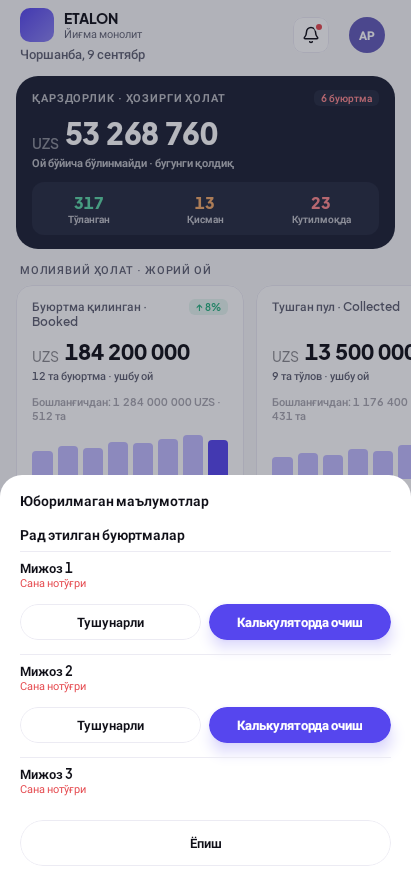
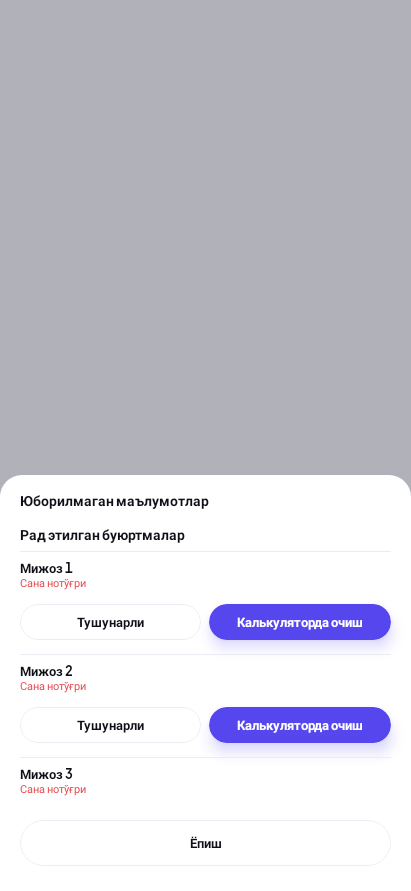
Chore(home) · dashboard phase close
The three outbox frames were whole-screen captures of `HomeScreen` under a
translucent scrim, so every one of them moved whenever a figure on Home's
first screen changed — three re-records a phase with no finding in any of
them. They now open the sheet over a blank page (`OutboxPage`, the pattern
`PickerSheetsScreenshotTest` already uses), which is what the frames are
actually about. The sheet's own pixels are unchanged: below its top edge the
new frames and the old ones differ in zero pixels.

`SHELL_NAV_PILL_INSET` goes with them — the sheet never read
`LocalNavPillInset`; it clears the system bar with `navigationBarsPadding`.

No other orphans: every string in the rebuilt module and every composable in
`feature/home` is referenced (grep-proven), and `NoLegacyApiTest` /
`NoRawHexTest` stay green.

diff --git a/android/feature/home/src/test/kotlin/uz/etalon/crm/feature/home/HomeScreenshotTest.kt b/android/feature/home/src/test/kotlin/uz/etalon/crm/feature/home/HomeScreenshotTest.kt
@@ -1,6 +1,10 @@
 package uz.etalon.crm.feature.home
 
-import androidx.compose.runtime.CompositionLocalProvider
+import androidx.compose.foundation.background
+import androidx.compose.foundation.layout.Box
+import androidx.compose.foundation.layout.fillMaxSize
+import androidx.compose.runtime.Composable
+import androidx.compose.ui.Modifier
 import androidx.compose.ui.test.assertIsDisplayed
 import androidx.compose.ui.test.hasText
 import androidx.compose.ui.test.junit4.createComposeRule
@@ -10,7 +14,6 @@ import androidx.compose.ui.test.onRoot
 import androidx.compose.ui.test.performClick
 import androidx.compose.ui.test.performScrollToIndex
 import androidx.compose.ui.test.performScrollToNode
-import androidx.compose.ui.unit.dp
 import com.github.takahirom.roborazzi.captureRoboImage
 import com.github.takahirom.roborazzi.captureScreenRoboImage
 import org.junit.Assert.assertEquals
@@ -22,6 +25,7 @@ import org.robolectric.annotation.Config
 import org.robolectric.annotation.GraphicsMode
 import uz.etalon.crm.core.data.RejectedOrder
 import uz.etalon.crm.core.designsystem.components.LocalNavPillInset
+import uz.etalon.crm.core.designsystem.theme.EtalonColors
 import uz.etalon.crm.core.designsystem.theme.EtalonTheme
 import uz.etalon.crm.core.model.AllTimeMoney
 import uz.etalon.crm.core.model.Aov
@@ -49,9 +53,16 @@ import java.math.BigDecimal
 import java.time.Instant
 import java.time.YearMonth
 
-/** What `SignedInShell` provides into [LocalNavPillInset] at Robolectric's 0 dp system navigation
- *  inset: the pill's 84 dp band alone, so this frame carries the clearance a real phone shows. */
-private val SHELL_NAV_PILL_INSET = 84.dp
+/**
+ * The page the outbox sheet is opened over: the app's own ground colour and nothing else, so the
+ * scrim has something to darken and the frame holds only the sheet. Deliberately NOT `HomeScreen`
+ * — see [HomeScreenshotTest.outboxRejectedLight].
+ */
+@Composable
+private fun OutboxPage(sheet: @Composable () -> Unit) {
+    Box(Modifier.fillMaxSize().background(EtalonColors.page))
+    sheet()
+}
 
 /**
  * The index of «Сўнгги буюртмалар» in a loaded `HomeScreen`'s list — the app bar, the hero, the
@@ -374,21 +385,19 @@ class HomeScreenshotTest {
     /**
      * D10 / R6: the bell's sheet, with one upload still queued and one order the server refused
      * outright. A whole-screen capture rather than `onRoot()` — the sheet is a `ModalBottomSheet`
-     * in a window of its own, and the scrim over Home is part of what the frame has to show.
+     * in a window of its own, and the scrim it paints is part of what the frame has to show.
      *
-     * [LocalNavPillInset] is provided the way `SignedInShell` provides it (Robolectric reports no
-     * system navigation bar, so the shell's band is its whole 84 dp), matching every other feature
-     * module's screenshot test.
+     * The page under the scrim is BLANK, not `HomeScreen` ([OutboxPage], the pattern
+     * `PickerSheetsScreenshotTest` already uses). These three frames are about the sheet; drawing
+     * the dashboard behind a 32 %-opaque scrim added nothing legible and made every one of them
+     * move whenever a figure on Home's first screen changed — a re-record with no finding in it,
+     * three times per phase. The sheet reads [LocalNavPillInset] nowhere (it clears the system bar
+     * with `navigationBarsPadding`), so nothing about its own pixels depends on the shell.
      */
     @Test @Config(qualifiers = "w411dp-h891dp") fun outboxRejectedLight() {
         rule.setContent {
             EtalonTheme {
-                CompositionLocalProvider(LocalNavPillInset provides SHELL_NAV_PILL_INSET) {
-                    HomeScreen(
-                        s = rejectedState(), me = owner, now = now, onRefresh = {},
-                        onOpenOrder = {}, onOpenOrders = {}, onOpenAccount = {}, onOpenOutbox = {},
-                        onOpenClients = {}, onOpenCalendarToday = {}, onOpenOrdersList = {}, onSelectMonth = {},
-                    )
+                OutboxPage {
                     OutboxSheet(
                         pending = rejectedState().pendingUploads,
                         rejected = rejectedState().rejectedOrders,
@@ -420,13 +429,7 @@ class HomeScreenshotTest {
         }
         rule.setContent {
             EtalonTheme {
-                CompositionLocalProvider(LocalNavPillInset provides SHELL_NAV_PILL_INSET) {
-                    HomeScreen(
-                        s = loaded().copy(pendingUploads = 0, rejectedOrders = many),
-                        me = owner, now = now, onRefresh = {},
-                        onOpenOrder = {}, onOpenOrders = {}, onOpenAccount = {}, onOpenOutbox = {},
-                        onOpenClients = {}, onOpenCalendarToday = {}, onOpenOrdersList = {}, onSelectMonth = {},
-                    )
+                OutboxPage {
                     OutboxSheet(pending = 0, rejected = many, onDiscard = {}, onDismiss = {}, onReopen = {})
                 }
             }
@@ -446,12 +449,7 @@ class HomeScreenshotTest {
     @Test @Config(qualifiers = "w411dp-h891dp") fun outboxDiscardConfirmLight() {
         rule.setContent {
             EtalonTheme {
-                CompositionLocalProvider(LocalNavPillInset provides SHELL_NAV_PILL_INSET) {
-                    HomeScreen(
-                        s = rejectedState(), me = owner, now = now, onRefresh = {},
-                        onOpenOrder = {}, onOpenOrders = {}, onOpenAccount = {}, onOpenOutbox = {},
-                        onOpenClients = {}, onOpenCalendarToday = {}, onOpenOrdersList = {}, onSelectMonth = {},
-                    )
+                OutboxPage {
                     OutboxSheet(
                         pending = 0,
                         rejected = rejectedState().rejectedOrders,
